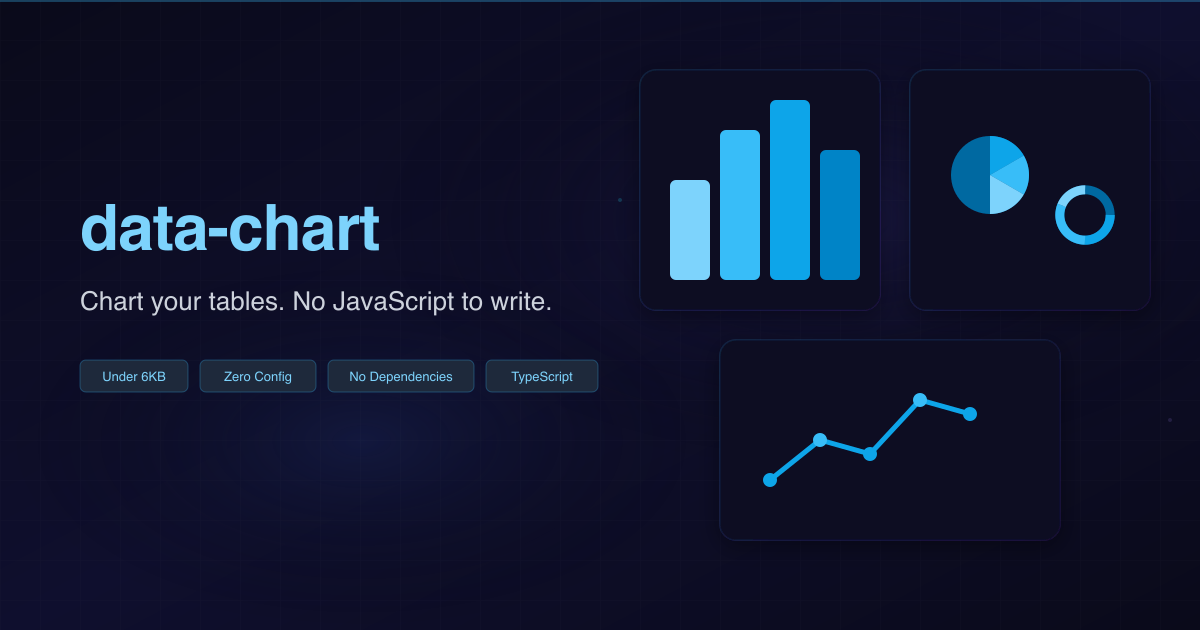
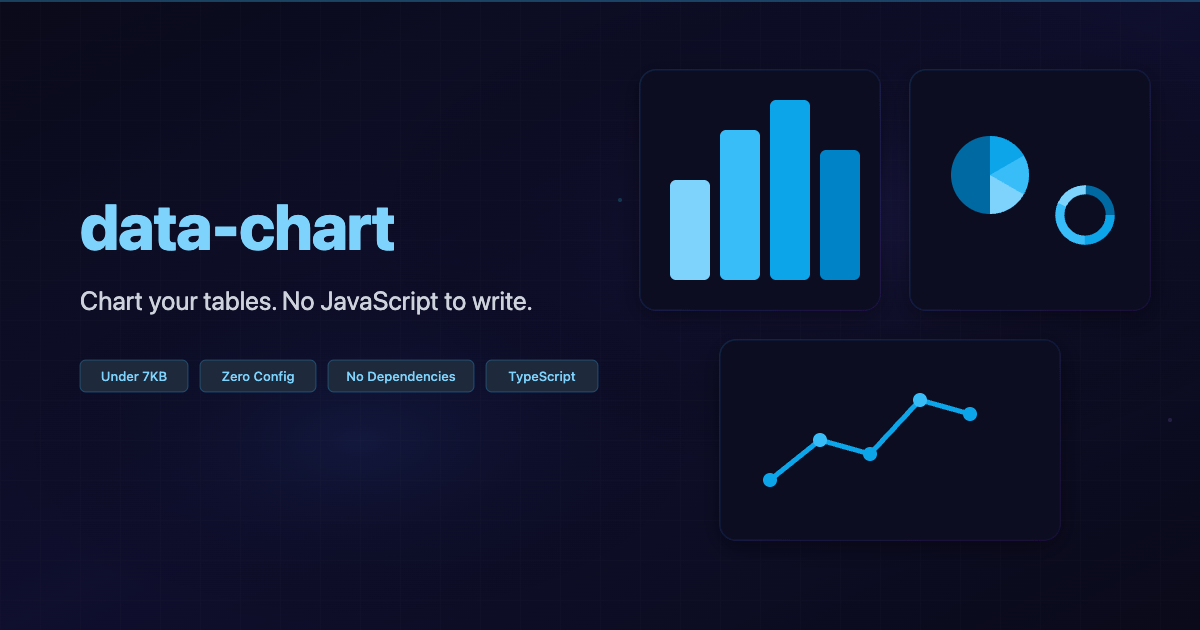
chore: update bundle size budget from 6KB to 7KB
- Update CLAUDE.md, check-size.mjs, README.md, README.ja.md
- Update docs site descriptions (EN/JA index, Layout)
- Regenerate og-image.svg and og-image.png with "Under 7KB"

diff --git a/CLAUDE.md b/CLAUDE.md
@@ -6,7 +6,7 @@ A zero-dependency library that converts HTML `<table>` elements into SVG charts 
 
 - **No animation**: data-chart does NOT contain animation logic. Never create `<animate>` elements, CSS `@keyframes`, or `requestAnimationFrame`. Animation is handled by the sibling library data-anim.
 - **Attribute forwarding**: `data-anim-*` attributes on tables are copied to `.data-chart-container` for data-anim to process. Do NOT import or depend on data-anim.
-- **Bundle size**: must be ≤ 6KB gzip. Run `pnpm size` to check.
+- **Bundle size**: must be ≤ 7KB gzip. Run `pnpm size` to check.
 
 ## i18n
 

diff --git a/README.ja.md b/README.ja.md
@@ -11,7 +11,7 @@
 
 ## Getting Started
 
-スクリプトタグを追加して、属性を書くだけ。テーブルがチャートに変わります。依存関係ゼロ、gzip で 6KB 未満。
+スクリプトタグを追加して、属性を書くだけ。テーブルがチャートに変わります。依存関係ゼロ、gzip で 7KB 未満。
 
 ### npm
 

diff --git a/README.md b/README.md
@@ -9,7 +9,7 @@
 
 ## Getting Started
 
-Add a script tag. Write attributes. Your tables become charts. Zero dependencies, under 6KB gzipped.
+Add a script tag. Write attributes. Your tables become charts. Zero dependencies, under 7KB gzipped.
 
 ### npm
 
